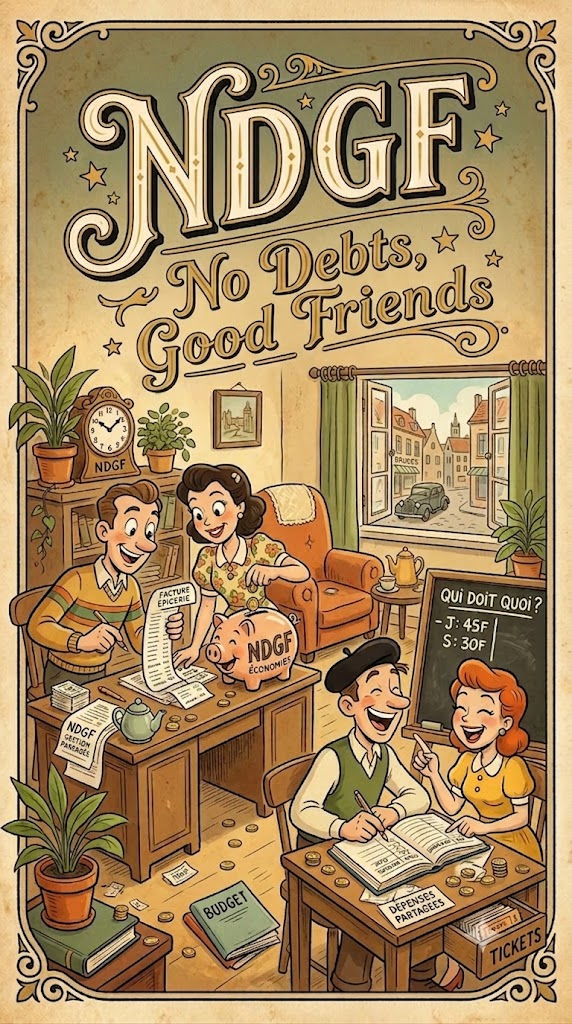
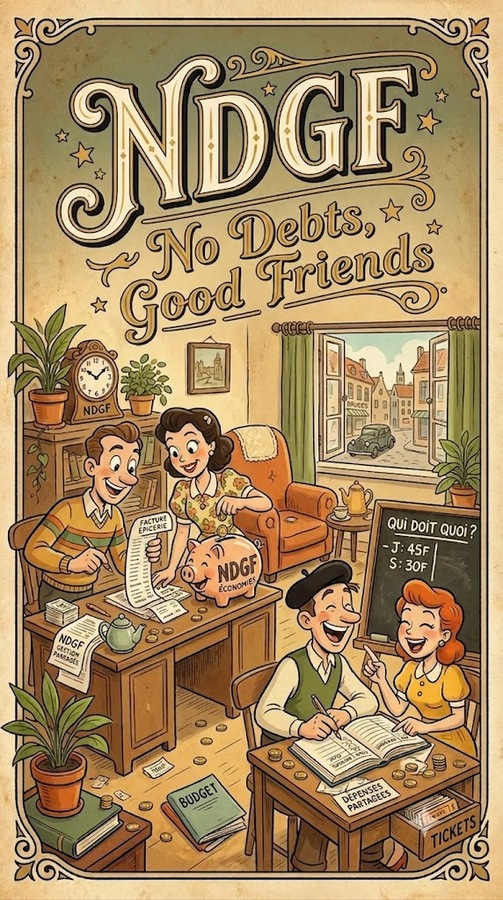
feat(ui) : polish register, login

diff --git a/ndgf.Web/ndgf.Web/wwwroot/app.generated.css b/ndgf.Web/ndgf.Web/wwwroot/app.generated.css
@@ -26,6 +26,13 @@
     --color-black: #000;
     --color-white: #fff;
     --spacing: 0.25rem;
+    --container-sm: 24rem;
+    --container-lg: 32rem;
+    --container-xl: 36rem;
+    --container-2xl: 42rem;
+    --container-3xl: 48rem;
+    --container-4xl: 56rem;
+    --container-5xl: 64rem;
     --text-xl: 1.25rem;
     --text-xl--line-height: calc(1.75 / 1.25);
     --text-2xl: 1.5rem;
@@ -197,6 +204,12 @@
   .static {
     position: static;
   }
+  .m-10 {
+    margin: calc(var(--spacing) * 10);
+  }
+  .m-20 {
+    margin: calc(var(--spacing) * 20);
+  }
   .-mt-3 {
     margin-top: calc(var(--spacing) * -3);
   }
@@ -218,6 +231,21 @@
   .mt-6 {
     margin-top: calc(var(--spacing) * 6);
   }
+  .mt-8 {
+    margin-top: calc(var(--spacing) * 8);
+  }
+  .mt-10 {
+    margin-top: calc(var(--spacing) * 10);
+  }
+  .mt-15 {
+    margin-top: calc(var(--spacing) * 15);
+  }
+  .mt-20 {
+    margin-top: calc(var(--spacing) * 20);
+  }
+  .mr-5 {
+    margin-right: calc(var(--spacing) * 5);
+  }
   .mr-10 {
     margin-right: calc(var(--spacing) * 10);
   }
@@ -229,6 +257,9 @@
   }
   .mb-6 {
     margin-bottom: calc(var(--spacing) * 6);
+  }
+  .mb-10 {
+    margin-bottom: calc(var(--spacing) * 10);
   }
   .-ml-5 {
     margin-left: calc(var(--spacing) * -5);
@@ -242,11 +273,59 @@
   .hidden {
     display: none;
   }
+  .h-\[10rem\] {
+    height: 10rem;
+  }
+  .h-\[50rem\] {
+    height: 50rem;
+  }
+  .h-\[55rem\] {
+    height: 55rem;
+  }
+  .h-\[75rem\] {
+    height: 75rem;
+  }
+  .h-\[100rem\] {
+    height: 100rem;
+  }
+  .h-\[150rem\] {
+    height: 150rem;
+  }
+  .h-\[200rem\] {
+    height: 200rem;
+  }
   .min-h-screen {
     min-height: 100vh;
   }
+  .w-1 {
+    width: var(--spacing);
+  }
+  .w-2xl {
+    width: var(--container-2xl);
+  }
+  .w-3xl {
+    width: var(--container-3xl);
+  }
+  .w-4xl {
+    width: var(--container-4xl);
+  }
+  .w-5xl {
+    width: var(--container-5xl);
+  }
+  .w-64 {
+    width: calc(var(--spacing) * 64);
+  }
   .w-full {
     width: 100%;
+  }
+  .w-lg {
+    width: var(--container-lg);
+  }
+  .w-sm {
+    width: var(--container-sm);
+  }
+  .w-xl {
+    width: var(--container-xl);
   }
   .flex-row {
     flex-direction: row;
@@ -262,6 +341,11 @@
   }
   .gap-2 {
     gap: calc(var(--spacing) * 2);
+  }
+  :where(.space-y-1 > :not(:last-child)) {
+    --tw-space-y-reverse: 0;
+    margin-block-start: calc(var(--spacing) * var(--tw-space-y-reverse));
+    margin-block-end: calc(var(--spacing) * calc(1 - var(--tw-space-y-reverse)));
   }
   :where(.space-y-2 > :not(:last-child)) {
     --tw-space-y-reverse: 0;
@@ -348,17 +432,32 @@
     --tw-gradient-to: var(--color-violet-200);
     --tw-gradient-stops: var(--tw-gradient-via-stops, var(--tw-gradient-position), var(--tw-gradient-from) var(--tw-gradient-from-position), var(--tw-gradient-to) var(--tw-gradient-to-position));
   }
+  .p-1 {
+    padding: var(--spacing);
+  }
   .p-2 {
     padding: calc(var(--spacing) * 2);
   }
   .p-3 {
     padding: calc(var(--spacing) * 3);
   }
+  .p-4 {
+    padding: calc(var(--spacing) * 4);
+  }
   .p-5 {
     padding: calc(var(--spacing) * 5);
   }
   .p-6 {
     padding: calc(var(--spacing) * 6);
+  }
+  .p-9 {
+    padding: calc(var(--spacing) * 9);
+  }
+  .p-10 {
+    padding: calc(var(--spacing) * 10);
+  }
+  .p-15 {
+    padding: calc(var(--spacing) * 15);
   }
   .px-4 {
     padding-inline: calc(var(--spacing) * 4);
